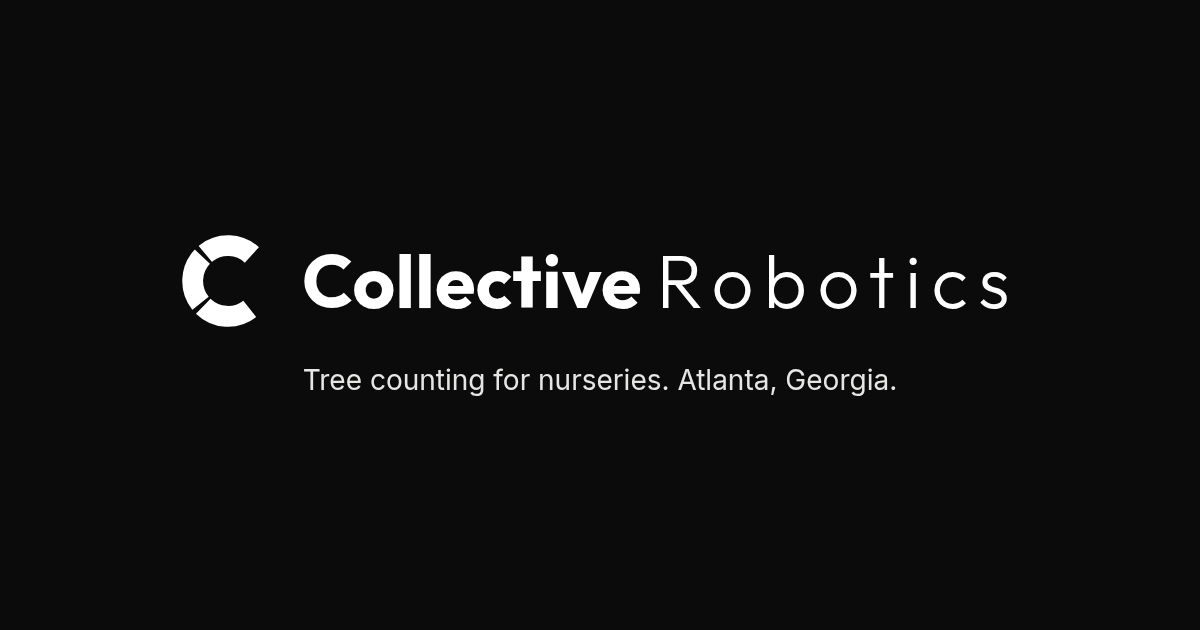
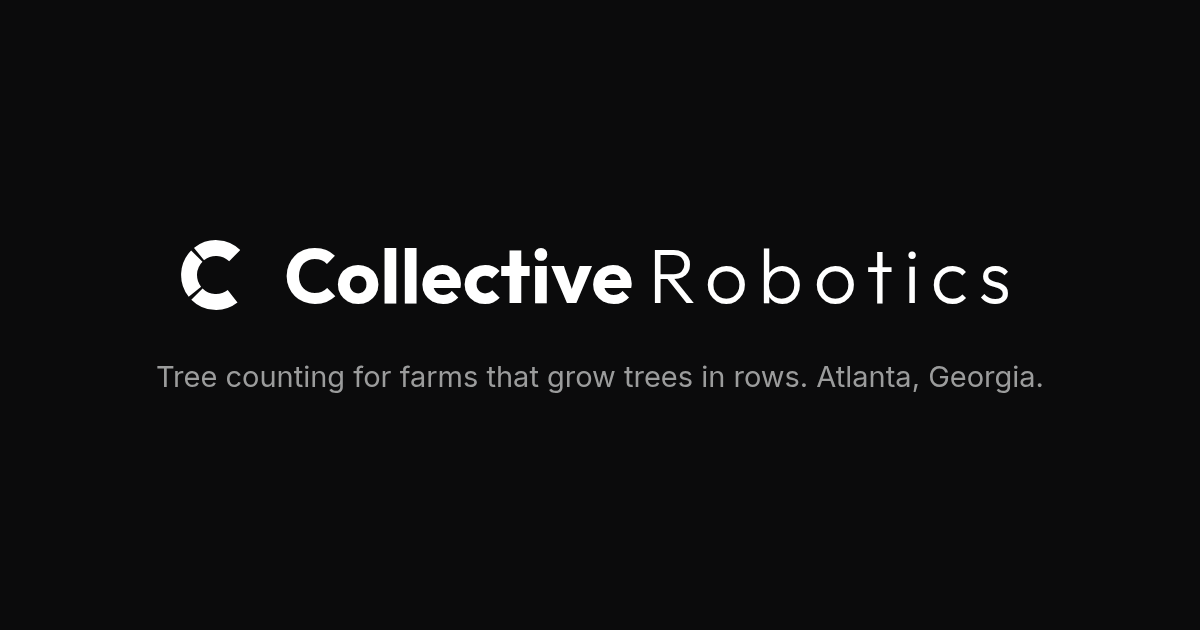
Broaden the copy from nurseries to farms that grow trees in rows
The page read as nursery only. Christmas tree farms and pecan orchards
are in scope too, so the audience wording is now generic tree inventory.

Title, meta description, og title and description, the hero place line,
two image alt texts and one caption drop "nursery". "Who this is for"
now leads with farms that grow trees in rows and names the three kinds
once, with one line each on what they get: nurseries a count by species
and block, Christmas tree farms a count by height class before wholesale
commitments, orchards a count plus a map of missing and dead trees.
The count card gains "or by height class".

The link preview card is rebuilt with the same lockup and the new line.
The hero headline, the truth rules, and every other claim are unchanged.

Claude-Session: https://claude.ai/code/session_01FtKBLz3V3ZCgNa9wiGSzrA

Changed region(s): [[0.2158, 0.3921, 0.8633, 0.5127], [0.1233, 0.573, 0.8633, 0.6333], [0.1542, 0.3619, 0.2158, 0.5429]]

diff --git a/index.html b/index.html
@@ -3,12 +3,12 @@
 <head>
 <meta charset="utf-8">
 <meta name="viewport" content="width=device-width, initial-scale=1">
-<title>Collective Robotics, tree counting for nurseries</title>
-<meta name="description" content="We count the trees in your blocks by species and by row, and send you a map you can open on your phone with a record for every tree. Atlanta, Georgia.">
+<title>Collective Robotics, tree counting for farms that grow trees in rows</title>
+<meta name="description" content="We count the trees on farms that grow trees in rows, by species and by row, and send you a map you can open on your phone with a record for every tree. Atlanta, Georgia.">
 <link rel="canonical" href="https://thecollectiverobotics.com/">
 <meta property="og:type" content="website">
-<meta property="og:title" content="Collective Robotics, tree counting for nurseries">
-<meta property="og:description" content="We count the trees in your blocks by species and by row, and send you a map you can open on your phone with a record for every tree. Atlanta, Georgia.">
+<meta property="og:title" content="Collective Robotics, tree counting for farms that grow trees in rows">
+<meta property="og:description" content="We count the trees on farms that grow trees in rows, by species and by row, and send you a map you can open on your phone with a record for every tree. Atlanta, Georgia.">
 <meta property="og:url" content="https://thecollectiverobotics.com/">
 <meta property="og:image" content="https://thecollectiverobotics.com/og.png">
 <meta property="og:image:width" content="1200">
@@ -58,11 +58,11 @@
     <h1>Know every tree on your farm.</h1>
     <p class="sub">We count the trees in your blocks, by species and by row, and send you a map you can open on your phone with a record for every tree. We collect it whatever way fits your rows, with a drone from the air or on foot.</p>
     <p><a class="btn" href="mailto:lucas@thecollectiverobotics.com">Ask about a count</a></p>
-    <p class="place">Based in Atlanta. Working with tree nurseries in Georgia.</p>
+    <p class="place">Based in Atlanta. Working with tree growers in Georgia.</p>
 
     <figure class="shot hero-figure">
-      <img src="img/rows-render.webp" width="1600" height="900" alt="Rows of young trees in a nursery block, seen from the end of a row." fetchpriority="high">
-      <figcaption><b>Simulation</b>Concept render of a nursery block from our own simulation, not a photograph of a field.</figcaption>
+      <img src="img/rows-render.webp" width="1600" height="900" alt="Rows of young trees in a block, seen from the end of a row." fetchpriority="high">
+      <figcaption><b>Simulation</b>Concept render of a block of trees from our own simulation, not a photograph of a field.</figcaption>
     </figure>
   </div>
 </section>
@@ -75,7 +75,7 @@
     <div class="cards">
       <div class="card">
         <h3>A count you can check</h3>
-        <p>We count the trees in each block and each row. You get the total, and you get the number by species.</p>
+        <p>We count the trees in each block and each row. You get the total, and you get the number by species, or by height class.</p>
       </div>
       <div class="card">
         <h3>A map on your phone</h3>
@@ -92,7 +92,7 @@
     <p class="closing" style="margin-top:14px">We fit the work to your farm. If you only need one block counted, or you need it organized by your own block and row names, that is what we do.</p>
 
     <figure class="shot phone-shot" style="margin-top:44px">
-      <img src="img/map-example.webp" width="840" height="1615" alt="Example of the map on a phone. A nursery block seen from above with a colored dot on every tree and a card showing one tree record." loading="lazy">
+      <img src="img/map-example.webp" width="840" height="1615" alt="Example of the map on a phone. A block of trees seen from above with a colored dot on every tree and a card showing one tree record." loading="lazy">
       <figcaption><b>Example</b>Example of a tree record. Every tree on the map gets an ID that stays with it.<br><span class="attrib">Aerial imagery: USDA NAIP (public domain)</span></figcaption>
     </figure>
   </div>
@@ -131,8 +131,24 @@
 <section class="band" id="who-its-for">
   <div class="wrap">
     <h2>Who this is for</h2>
-    <p>Field grown tree nurseries. If you have blocks of trees in the ground, several species, and a count that lives on paper or in one person's head, this is built for you.</p>
-    <p>It is most useful before a selling season, when the sales team needs to know what is actually out there, and before or after a dig, when the count changes fast.</p>
+    <p class="lede">Farms that grow trees in rows. If you have blocks of trees in the ground and a count that lives on paper or in one person's head, this is built for you.</p>
+
+    <div class="steps">
+      <div class="step">
+        <h3>Tree nurseries</h3>
+        <p>A count by species and block.</p>
+      </div>
+      <div class="step">
+        <h3>Christmas tree farms</h3>
+        <p>A count by height class, before you commit to wholesale.</p>
+      </div>
+      <div class="step">
+        <h3>Orchards</h3>
+        <p>A count, plus a map of the missing and the dead trees.</p>
+      </div>
+    </div>
+
+    <p class="closing" style="margin-top:32px">It is most useful before a selling season, when the sales team needs to know what is actually out there, and whenever the count changes fast, after a dig or a harvest.</p>
   </div>
 </section>
 

diff --git a/README.md b/README.md
@@ -33,7 +33,7 @@ Four images ship with the page and one placeholder remains.
 
 | File | What it is | How it is labeled |
 |---|---|---|
-| `img/rows-render.webp` | Hero. A nursery block from the project's own simulation. | Caption says "Simulation", concept render, not a photograph. |
+| `img/rows-render.webp` | Hero. A block of trees from the project's own simulation. | Caption says "Simulation", concept render, not a photograph. |
 | `img/map-example.webp` | The example tree record on a phone. | Caption says "Example", plus the imagery attribution line. |
 | `img/collect-render.webp` | The ground robot moving down a row. | Caption says "Simulation". |
 | `img/ground-robot-render.webp` | The ground robot in a row, front view. | Caption says "Concept render". |
